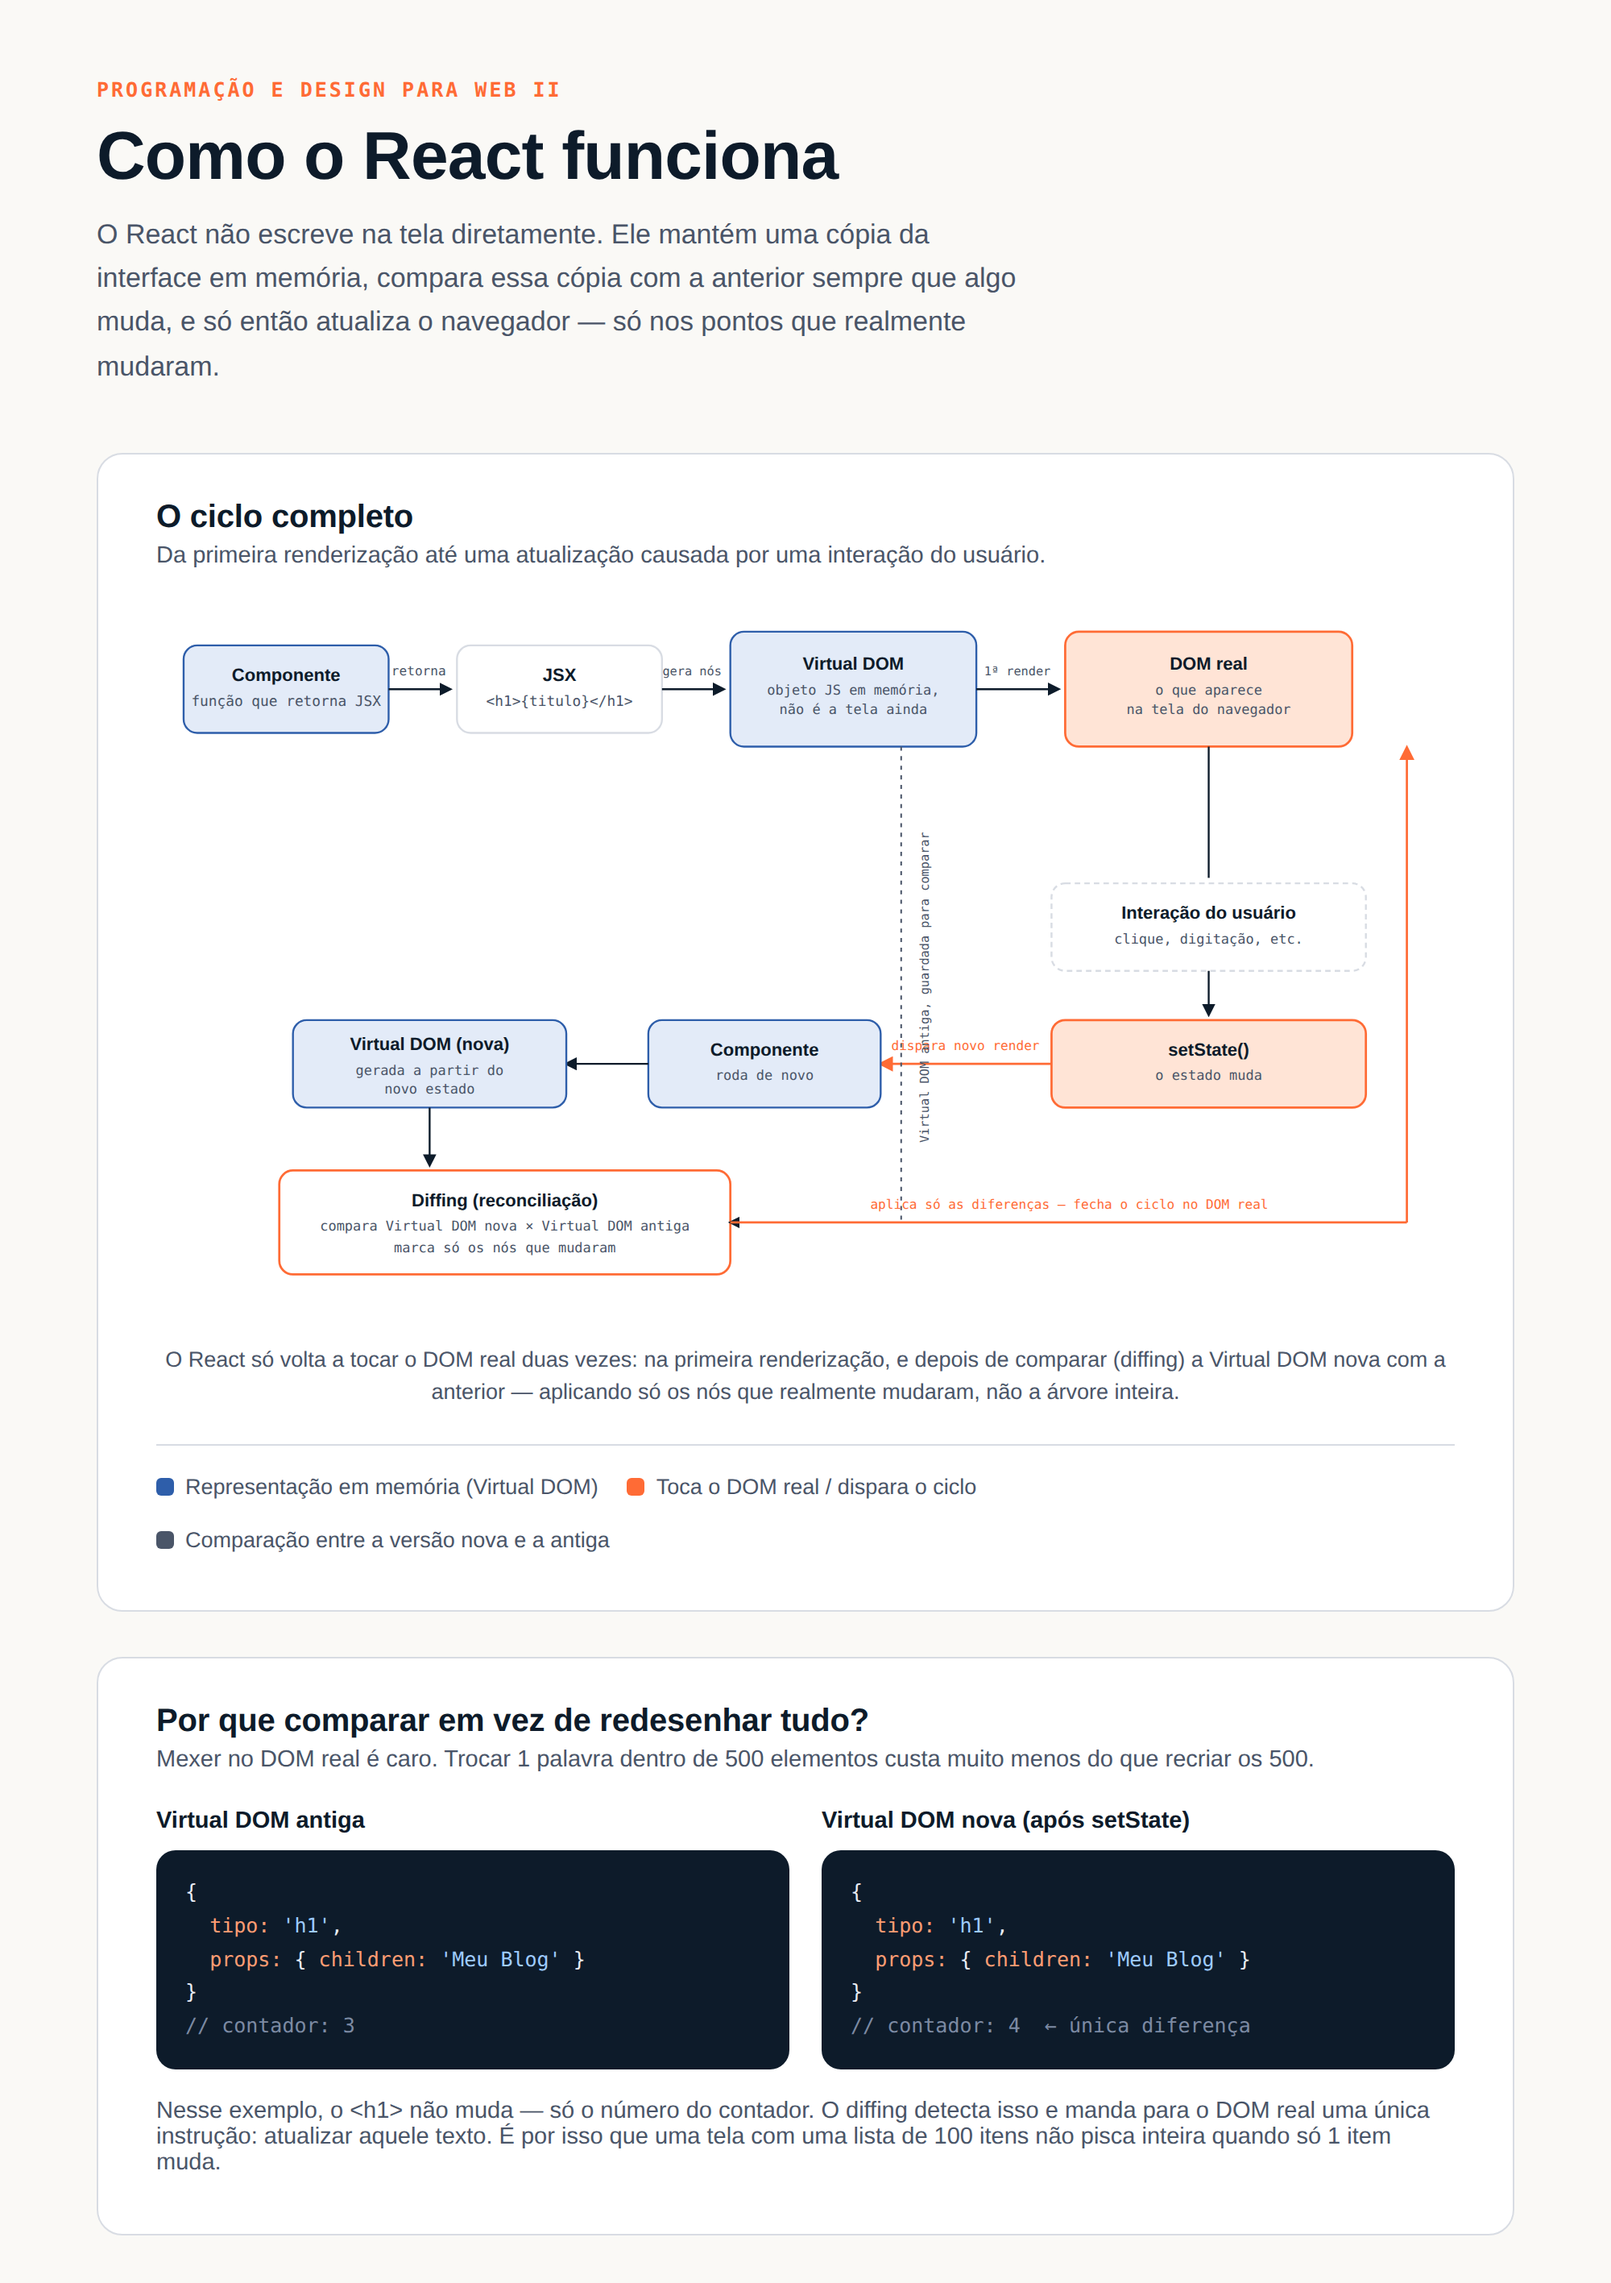
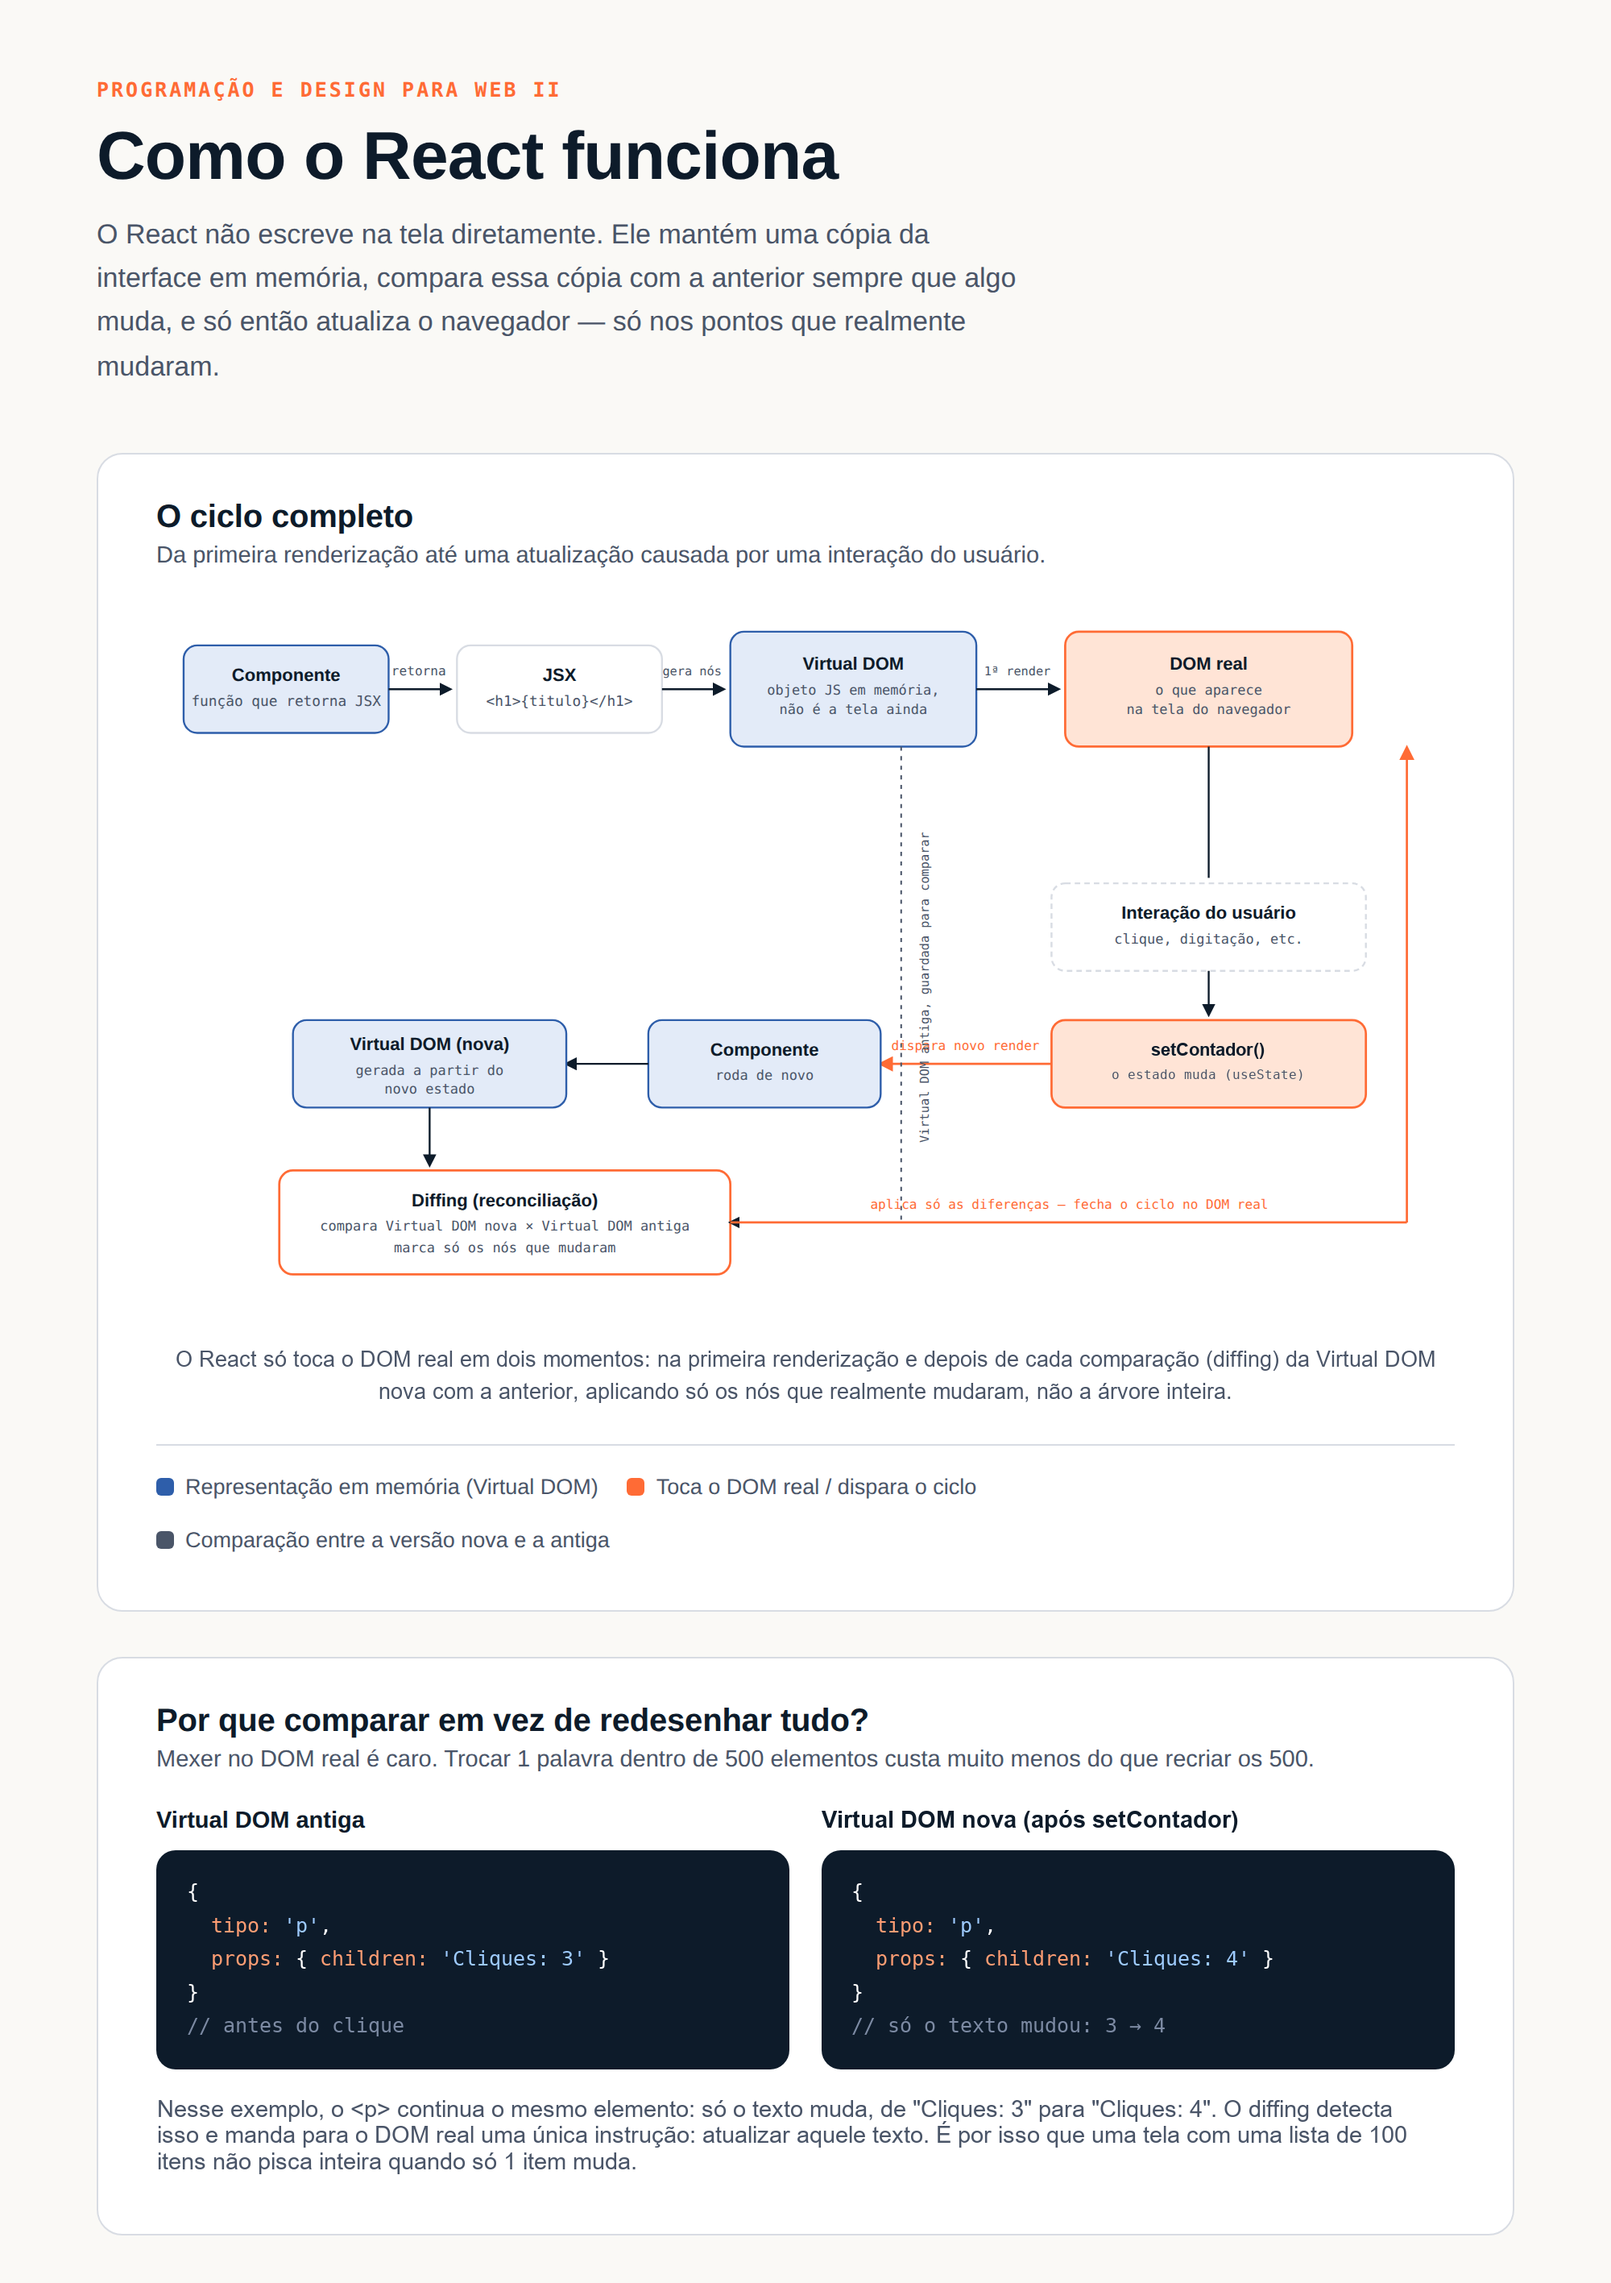
Web II: infográfico do React corrigido (dois momentos, exemplo do contador, useState)

diff --git a/site/src/data/apostilas.ts b/site/src/data/apostilas.ts
@@ -710,6 +710,8 @@ export const apostilas: Apostila[] = [
   {
     // "Como funciona o react.png" (infográfico da professora), com o rodapé do nome recortado, publicado em
     // public/apostilas/web2/como-o-react-funciona.png; página em src/data/capitulos/web2-react.json
+    // Corrigido em 23/10/2026 (scratchpad corrigir_react.py): "em dois momentos", o exemplo do contador
+    // com a diferença dentro da Virtual DOM ('Cliques: 3' -> 'Cliques: 4') e setContador (useState).
     id: 'web2-react',
     rotulo: 'Infográfico',
     grupo: 'Material complementar',

diff --git a/PROXIMOS-PASSOS.md b/PROXIMOS-PASSOS.md
@@ -38,8 +38,6 @@ O site está em https://estudos.tecprotecnologias.com.br (Cloudflare) e se atual
     5. Senha com `#` no `.env`: sem aspas, o dotenv corta o que vem depois do `#` e a conexão falha com "Access denied"; um aviso de uma linha.
   - [ ] Revisar os serviços citados (Railway sem plano gratuito, Thunder Client pago) e o MySQL Workbench com o MySQL 9.7.
   - [ ] Levar as correções do site de volta para o LaTeX do livro (pasta Guia NODES.js), antes de publicar.
-- [ ] **Material complementar da Web II** (anotado em 20/10/2026). Já revisados: o guia de Prompt (sem erros), o livro de Node.js e o guia de Git e GitHub (reescrito em 23/10/2026). Falta:
-  - [ ] Infográfico do React (opcional, imagem da professora): "duas vezes" → "dois momentos"; o contador aparece só num comentário.
 
 ## Segurança dos dados e do site (antes de liberar para os alunos)
 
